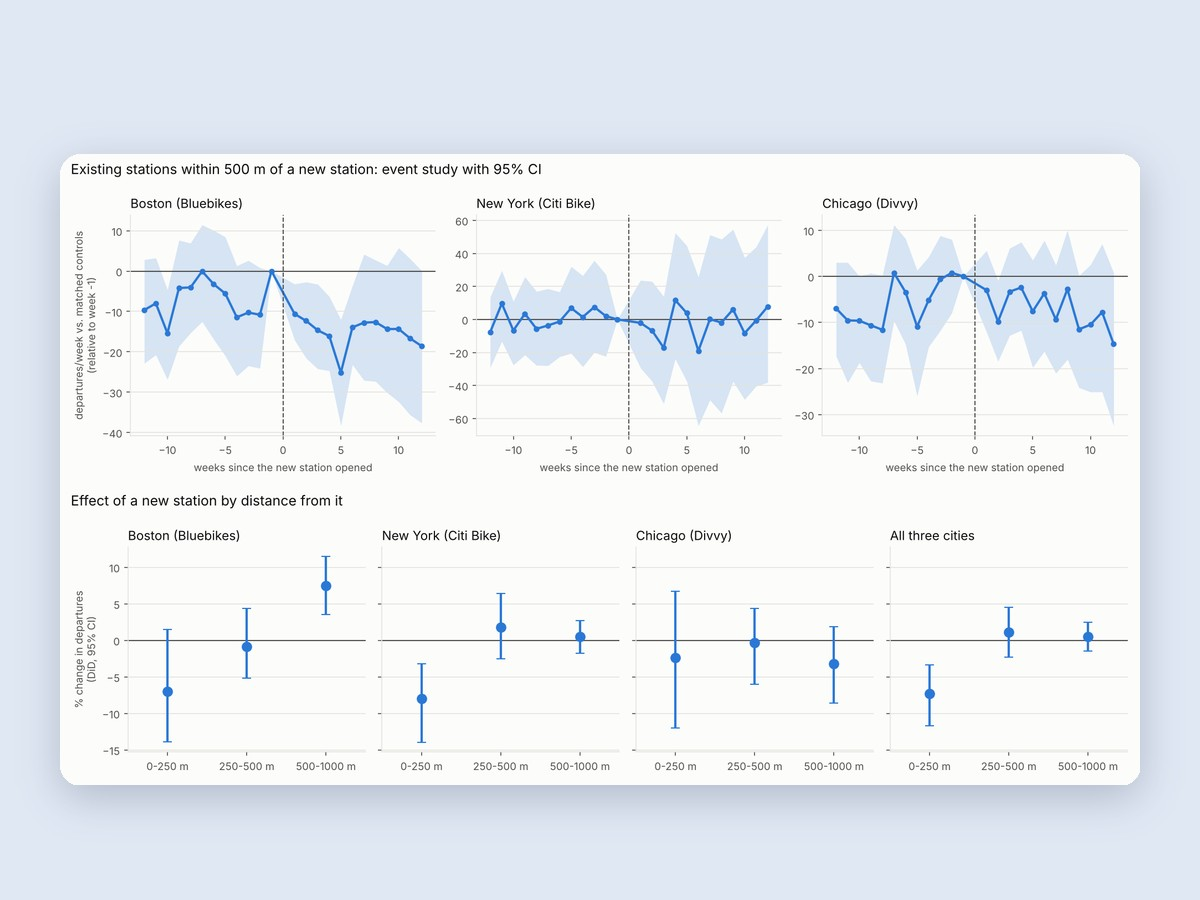
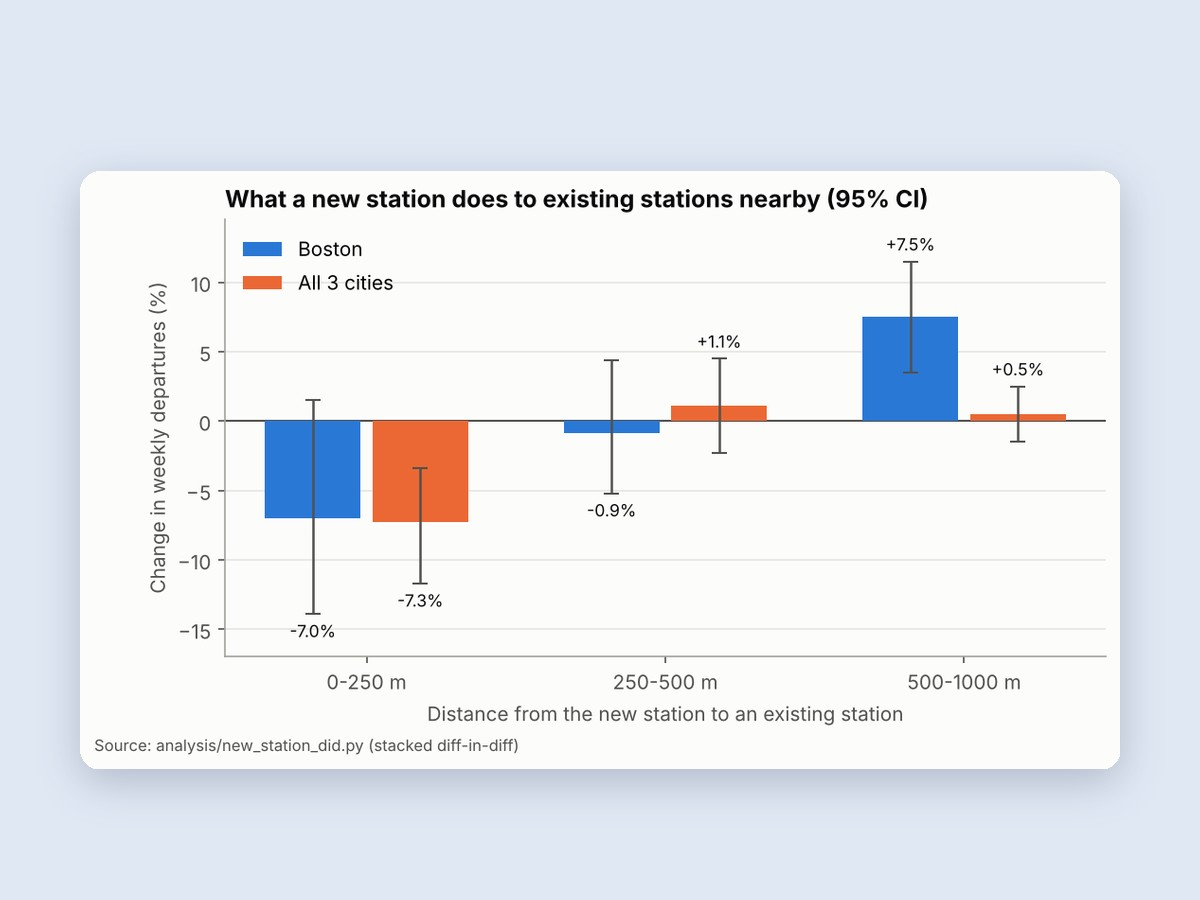
Update bike-share project to match the repo

diff --git a/projects.js b/projects.js
@@ -118,7 +118,7 @@ window.PROJECTS = [
     meta: "Operations analytics · Bluebikes, Citi Bike and Divvy",
     date: "2026",
     context:
-      "Docked bike-share fails riders when a station has no bikes or no open docks, and those lost trips never show up in trip data. Boston is also deciding where new Bluebikes stations should go. I wrote a requirements doc with the City of Boston Analytics Team as the audience, then measured stockouts, tested whether new stations add rides, and ranked where new ones should go, using Citi Bike and Divvy as benchmarks.",
+      "Docked bike-share fails riders when a station has no bikes or no open docks, and those lost trips never show up in trip data. Boston is also deciding where new Bluebikes stations should go. I wrote a requirements doc with the City of Boston Analytics Team as the audience, tested whether new stations add rides, forecast station demand and ranked where new ones should go, using Citi Bike and Divvy as benchmarks. A collector polling every station every 5 minutes is measuring how often stations sit empty or full, with stockout results due after it finishes in late November.",
     did: [
       "Wrote the requirements doc: business questions, KPI definitions and scope",
       "Built a GBFS collector that snapshots station status, scheduled as a Kubeflow pipeline, plus ingestion of official trip history",
@@ -129,10 +129,10 @@ window.PROJECTS = [
     results: [
       "New stations mostly add rides: about +160 departures a week per opening, net of nearby losses",
       "Cannibalization only shows up within 250 m (-7.3%), which sets a spacing rule for siting",
-      "Boston demand forecast cuts departure MAPE from 85% to 57% vs the seasonal-naive baseline",
+      "Boston forecast error (WAPE) of 64.7% vs 85.2% for the same-hour-last-week baseline, with similar gains in New York and Chicago",
       "35 dense Boston tracts with no station within 400 m, ranked for new stations",
     ],
-    stack: ["Python", "SQL", "DuckDB", "Kubeflow", "statsmodels", "LightGBM", "GeoPandas", "Excel"],
+    stack: ["Python", "SQL", "DuckDB", "Kubeflow", "statsmodels", "LightGBM", "GeoPandas", "matplotlib", "Excel"],
     github: "https://github.com/khus-hi/bikeshare-stockouts-siting",
   },
   {
